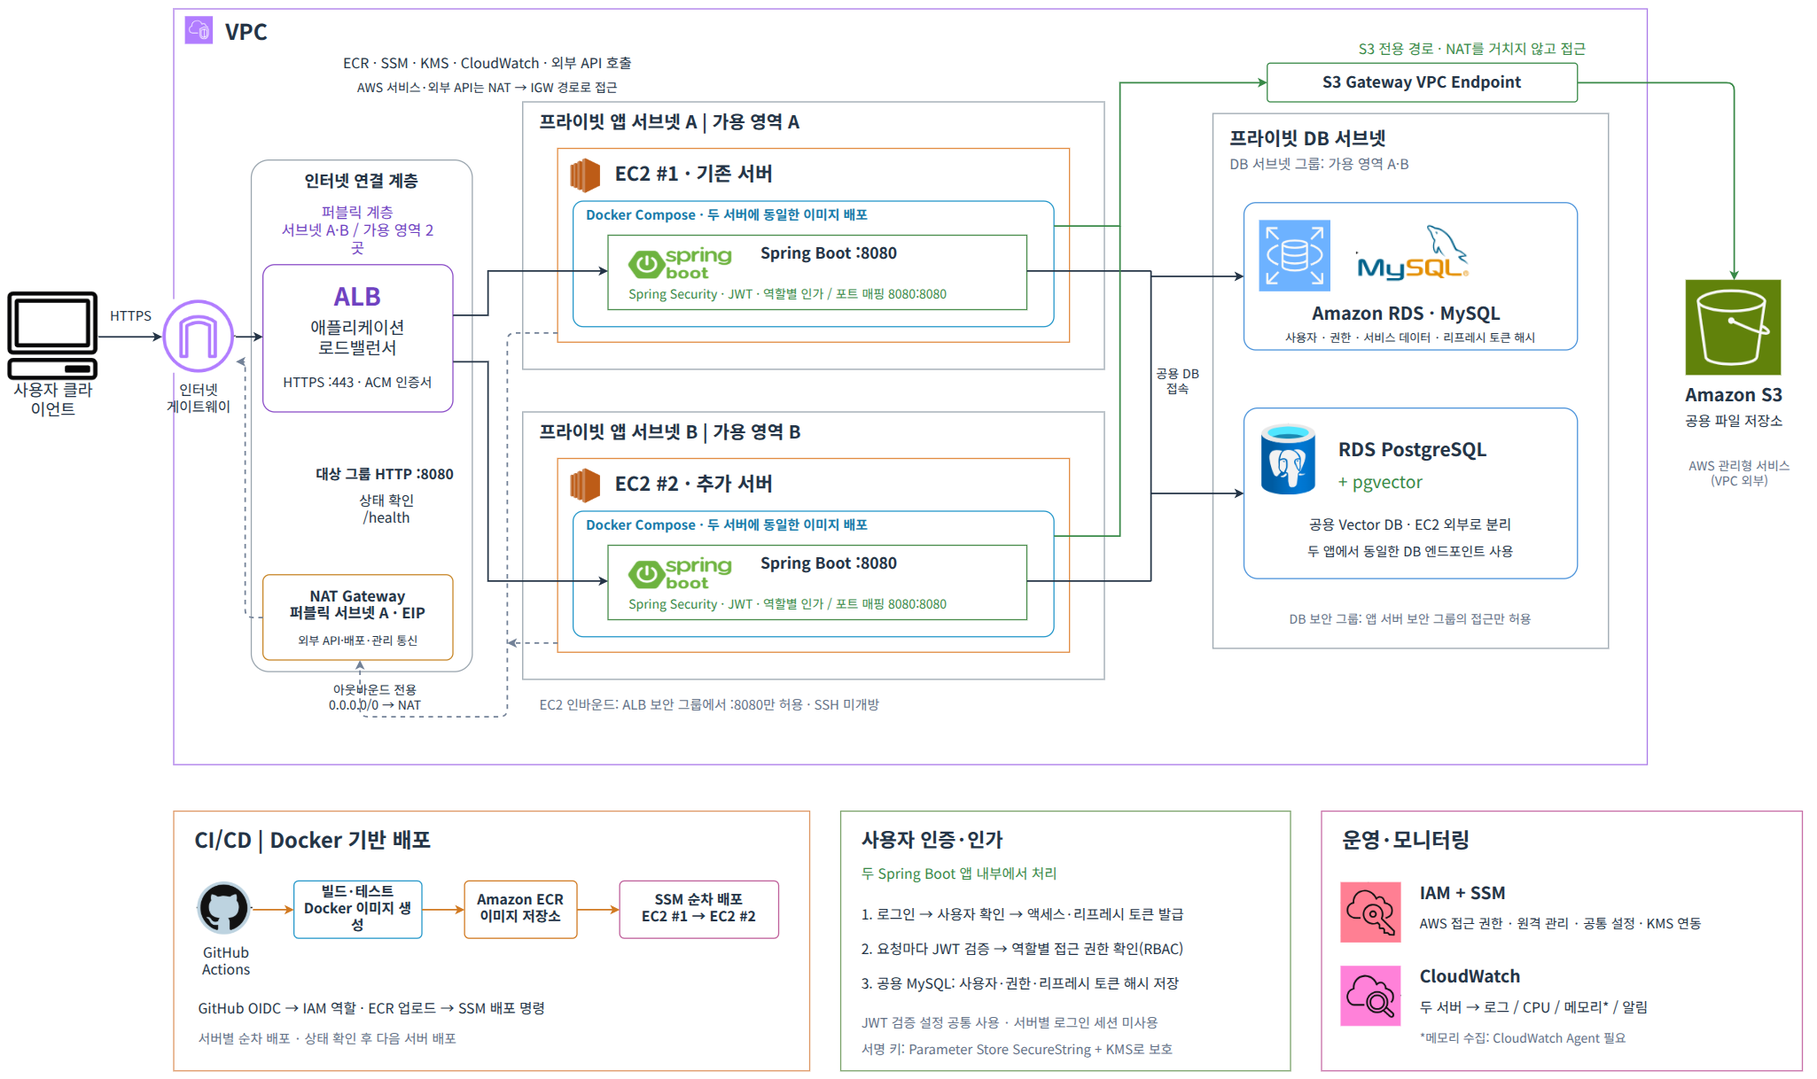
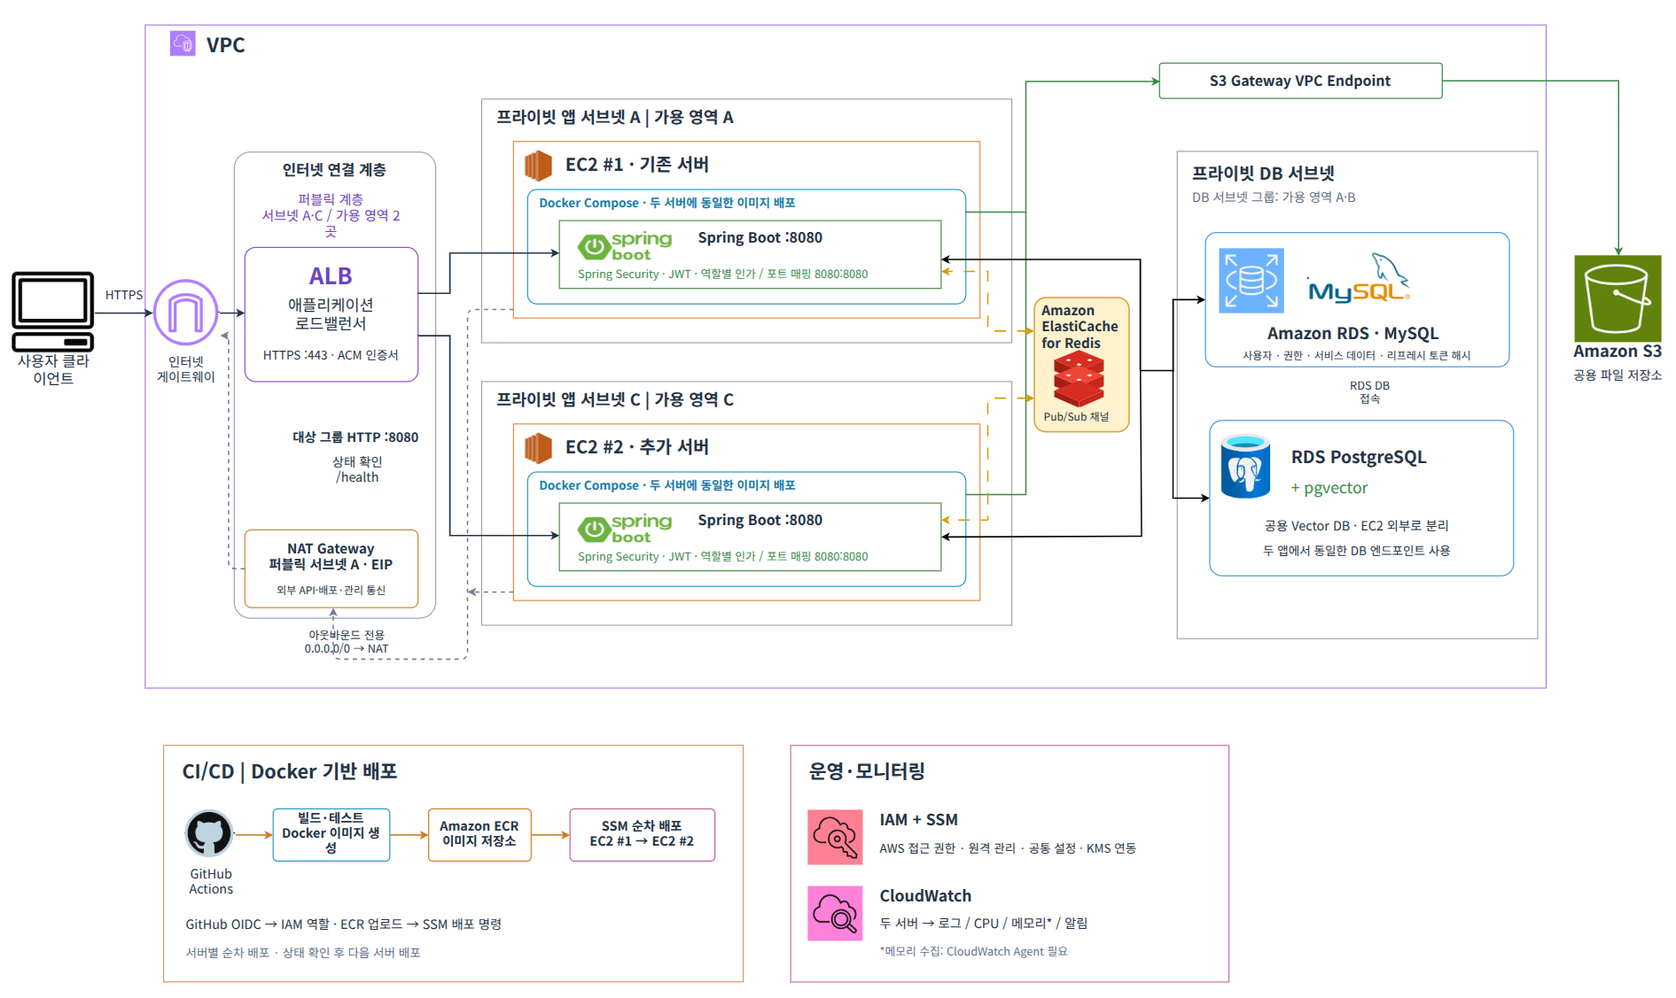
Update README for store chat, the two-server setup, and the Redis diagram
- Replace the architecture diagram with the version that adds
  ElastiCache (Redis Pub/Sub) between the two app servers.
- Add store chat to the feature list, tech stack, module table,
  event table, ERD (tw_chat, plus shedlock in tw_shared) and API
  overview. The API overview now lists 118 REST endpoints and notes
  that STOMP is used for send and receive.
- Add a design note on what changed when a second server was added:
  chat relay, rate limit counters, scheduled-job locks, and event
  resubmission.
- Rewrite the deploy section to match how production runs today:
  build locally, upload to a private S3 bucket, then go one server at
  a time over SSM with sha256 checks. Mark the diagram's
  GitHub Actions/ECR pipeline as planned, and refer to SSM instead of
  SSH for server access.
- Update the test count to 296 and add verification rows for chat
  rooms and the two-server safeguards.

diff --git a/README.md b/README.md
@@ -12,6 +12,7 @@
 ![Gradle](https://img.shields.io/badge/Gradle-9-02303A?style=flat-square)
 ![MySQL](https://img.shields.io/badge/MySQL-4479A1?style=flat-square)
 ![pgvector](https://img.shields.io/badge/pgvector-4169E1?style=flat-square)
+![Redis](https://img.shields.io/badge/Redis%20(ElastiCache)-DC382D?style=flat-square)
 ![Spring AI](https://img.shields.io/badge/Spring%20AI-2.0.0-6DB33F?style=flat-square)
 
 <br>
@@ -154,6 +155,16 @@ AI 엔드포인트에는 호출 제한이 걸려 있다(`shared/ratelimit`). 비
 
 설명과 숫자를 다르게 다루는 이유는 [설계 포인트](#ai-상담은-설명과-숫자를-다르게-다룬다)에 적었다.
 
+### 매장 채팅
+
+매장마다 단체 채팅방이 하나 있다. 매장을 만들면 같은 트랜잭션에서 방이 생기고, 그 매장의 재직 멤버만 들어올 수 있다.
+
+- 이전 메시지는 REST로, 새 메시지는 **WebSocket(STOMP)** 으로 실시간 주고받는다. 수정·삭제도 실시간으로 반영된다.
+- 서버가 2대라 서로 다른 서버에 붙은 사람도 같은 메시지를 받도록 **Redis Pub/Sub**으로 서버 사이에 전달한다.
+- 권한이 없는 연결은 끊고, 남의 메시지 수정 같은 실수는 보낸 사람에게만 알리고 연결은 유지한다.
+
+흐름과 설계 이유는 [`docs/chat-architecture.md`](docs/chat-architecture.md)에 있다.
+
 ### 매장 운영
 
 | 기능 | 내용 |
@@ -181,7 +192,7 @@ AI 엔드포인트에는 호출 제한이 걸려 있다(`shared/ratelimit`). 비
 
 ## 기존 구조와 무엇이 다른가
 
-같은 기능, 같은 API(117개)를 두 가지 구조로 담고 있다. [`layered`](https://github.com/kiddo-dong/tothework/tree/layered)
+같은 기능, 같은 API(117개)를 두 가지 구조로 담고 있다(`main`에는 그 뒤에 매장 채팅이 더해졌다). [`layered`](https://github.com/kiddo-dong/tothework/tree/layered)
 브랜치가 출발점인 레이어드 구조이고, `main`이 그것을 모듈러 모놀리스로 다시 지은 결과다.
 
 | | `layered` | `main` |
@@ -220,9 +231,11 @@ AI 엔드포인트에는 호출 제한이 걸려 있다(`shared/ratelimit`). 비
 | **업무 DB** | MySQL 8 — 서비스마다 스키마 | 테이블 소유권을 서비스 단위로 |
 | **벡터 DB** | PostgreSQL 16 + pgvector 0.6 | 근로기준법 문서 임베딩 검색 |
 | **AI** | Spring AI 2.0, OpenAI `gpt-4.1-mini`, `text-embedding-3-small` | 임베딩 1536차원 |
+| **실시간** | WebSocket + STOMP, Redis Pub/Sub | 매장 채팅. 서버 2대 사이의 메시지 전달 |
+| **분산 협조** | ShedLock (MySQL), Redis 카운터 | 예약 작업을 한 서버에서만, 호출 제한을 두 서버가 함께 센다 |
 | **인증** | JWT (jjwt), OAuth2 | 리프레시 토큰은 DB에 해시로 보관 |
 | **스토리지** | AWS S3 | 프로필·매뉴얼 이미지 |
-| **테스트** | JUnit 5, Testcontainers, ArchUnit, datasource-proxy | 실제 MySQL·경계 규칙·쿼리 수 |
+| **테스트** | JUnit 5, Testcontainers, ArchUnit, datasource-proxy | 실제 MySQL·Redis·경계 규칙·쿼리 수 |
 
 영속성은 JPA 대신 **Spring Data JDBC**를 쓴다. 지연 로딩·변경 감지·프록시가 없어 엔티티를 타고 다른 서비스로
 결합이 새어 나갈 수 없다. 목록처럼 자식 컬렉션을 여러 루트에 걸쳐 읽는 곳은 SQL을 직접 쓴다
@@ -239,6 +252,8 @@ AI 엔드포인트에는 호출 제한이 걸려 있다(`shared/ratelimit`). 비
 | **스토리지** | AWS S3 | 프로필·매장·매뉴얼 이미지. key로 저장하고 URL은 조립 |
 | **모니터링** | Amazon CloudWatch | EC2 기본 지표(CPU·네트워크·디스크) + **CloudWatch Agent로 로그 수집** |
 | **프로세스 관리** | systemd | 전용 계정으로 실행, 부팅 시 자동 기동, 시크릿은 `EnvironmentFile` |
+| **배포** | 로컬 빌드 → S3 → SSM으로 한 대씩 | 현재는 수동이다. 그림의 Docker·ECR·GitHub Actions 자동 배포는 전환 예정 |
+| **서버 접근** | AWS Systems Manager (SSM) | SSH를 열지 않는다. 세션과 원격 명령 모두 SSM |
 | **로드밸런서** | AWS ALB | TLS 종료(ACM 인증서), EC2의 `8080`으로 전달, 헬스체크 `/health` |
 | **프론트엔드** | Vercel | [`tothework.com`](https://tothework.com) |
 | **운영 상태** | Spring Boot Actuator | `health`·`info`·`metrics`·`loggers`, **8081 루프백 전용** |
@@ -250,7 +265,7 @@ ALB는 8080(트래픽 포트)으로만 보내고 8081은 루프백이라, 상세
 
 **로그를 두 곳에 쌓는 이유** — 인스턴스 안에는 Logback이 파일로 남기고, CloudWatch Agent가 같은 로그를
 밖으로 보낸다. 파일만 있으면 **인스턴스를 잃는 순간 장애 직전의 로그도 함께 사라진다.**
-반대로 로컬 파일이 있어야 SSH로 들어가 바로 `tail`할 수 있다.
+반대로 로컬 파일이 있어야 SSM 세션으로 들어가 바로 `tail`할 수 있다.
 
 **로그 상한을 건 이유** — 작은 인스턴스에서 로그가 디스크를 채우면 앱이 아니라 **서버가 죽는다.**
 총량 상한이 있어야 최악의 경우가 "오래된 로그 유실"에서 멈춘다.
@@ -261,8 +276,12 @@ ALB는 8080(트래픽 포트)으로만 보내고 8081은 루프백이라, 상세
 
 ![아키텍처](docs/images/architecture.png)
 
-요청은 **ALB를 거쳐서만** 들어온다. 앱은 8080으로 받고(`SERVER_ADDRESS=0.0.0.0`), EC2 보안 그룹은 8080을 ALB
-보안 그룹에서만 허용한다. Actuator는 8081 루프백 전용이라 ALB로도 닿지 않는다.
+- 요청은 **ALB를 거쳐서만** 들어온다. 앱은 8080으로 받고(`SERVER_ADDRESS=0.0.0.0`), EC2 보안 그룹은 8080을 ALB
+  보안 그룹에서만 허용한다. Actuator는 8081 루프백 전용이라 ALB로도 닿지 않는다.
+- 앱 서버 2대는 서로 다른 가용 영역의 프라이빗 서브넷에 있고, **같은 jar를 같은 설정으로** 돌린다. 상태는 서버에 두지
+  않고 공유 저장소에 둔다. 업무 데이터는 RDS MySQL, 벡터는 RDS PostgreSQL, 채팅 전달·호출 제한은 ElastiCache다.
+- 서버 밖으로 나가는 통신(OpenAI, 메일, 소셜 로그인)은 NAT Gateway를, S3는 Gateway VPC Endpoint를 거친다.
+- 그림 아래의 CI/CD(GitHub Actions → ECR → SSM)는 **전환 예정**이다. 지금은 [배포](#배포)의 수동 절차를 쓴다.
 
 ---
 
@@ -279,12 +298,13 @@ ALB는 8080(트래픽 포트)으로만 보내고 8081은 루프백이라, 상세
 | `workforce` | 스케줄·근태·연차·급여·고용 조건 | `tw_workforce` |
 | `operations` | 체크리스트·공지·인수인계·매뉴얼·거래처·메뉴 | `tw_operations` |
 | `laborqa` | AI 근로 상담 | `tw_laborqa` (+ 벡터 DB) |
+| `chat` | 매장 단체 채팅 (STOMP, Redis Pub/Sub) | `tw_chat` |
 | `bff` | 화면용 조합 API(홈, 멤버 상세). 서비스가 아니다 | 없음 |
 
 ```
 <service>/api    서비스 간 계약 — 레코드·이벤트·인터페이스만
 <service>/core   구현 — Spring Data JDBC, 자기 스키마의 Flyway 마이그레이션
-shared           공통 기반 (보안 필터, 에러 응답, S3, 호출 제한 — 도메인 개념 없음)
+shared           공통 기반 (보안 필터, 에러 응답, S3, 호출 제한, 예약 작업 락 — 도메인 개념 없음)
 bff              여러 서비스의 api를 조합
 app              모두를 하나의 프로세스로 조립하는 실행 모듈 (API 문서, 통합 테스트)
 ```
@@ -303,13 +323,16 @@ app              모두를 하나의 프로세스로 조립하는 실행 모듈 
 
 - **조회**: 다른 서비스의 `api` 인터페이스를 부른다. 예: workforce가 store의 `StoreAccess`로 권한을, identity의
   `UserDirectory`로 이름을 묻는다. 목록은 서비스마다 한 번씩만 묻는다.
-- **이벤트**: `@ApplicationModuleListener`로 받는다. 발행한 쪽이 커밋된 뒤 **별도 트랜잭션에서 비동기로** 실행되고,
-  처리하지 못한 이벤트는 `tw_shared.EVENT_PUBLICATION`에 남아 재시작할 때 다시 전달된다.
+- **이벤트**: 대부분 `@ApplicationModuleListener`로 받는다. 발행한 쪽이 커밋된 뒤 **별도 트랜잭션에서 비동기로**
+  실행된다. 처리하지 못한 이벤트는 `tw_shared.EVENT_PUBLICATION`에 남고, 실패로 확정된 것은 5분마다 **한 서버에서만**
+  다시 보낸다(서버가 2대라 재시작할 때 다시 보내는 방식은 쓰지 않는다). 매장 생성처럼 함께 있어야 하는 것은 같은
+  트랜잭션(`BEFORE_COMMIT`)에서 받는다.
 
 | 이벤트 | 내는 곳 | 받는 곳 |
 |---|---|---|
+| `StoreCreatedEvent` | store (같은 트랜잭션) | chat — 매장 채팅방 생성 |
 | `MemberJoinedEvent` | store | workforce — 기본 고용 조건 생성 |
-| `StorePurgedEvent` | store (유예기간 뒤 완전 삭제) | workforce·operations — 그 매장의 데이터 삭제 |
+| `StorePurgedEvent` | store (유예기간 뒤 완전 삭제) | workforce·operations·chat — 그 매장의 데이터 삭제 |
 | `UserWithdrawnEvent` | identity | store·laborqa — 신청·상담 이력 정리 |
 
 - **화면 조합**: 홈 화면은 bff가 권한을 한 번 확인한 뒤 각 서비스의 조회 계약(`Schedules`·`Attendances`·`Payrolls`·
@@ -317,14 +340,15 @@ app              모두를 하나의 프로세스로 조립하는 실행 모듈 
 - **인증**: 토큰 검증·보안 필터는 `shared.security`에 있어 서비스가 나뉘어도 각자 검증할 수 있다. 발급과 사용자
   저장은 identity만 한다. 로그인 없이 열 경로는 각 서비스가 `PublicEndpoints` 빈으로 등록한다.
 
-설계 문서: [store](docs/design/store.md) · [workforce](docs/design/workforce.md) · [operations](docs/design/operations.md)
+설계 문서: [store](docs/design/store.md) · [workforce](docs/design/workforce.md) · [operations](docs/design/operations.md) · [chat](docs/chat-architecture.md)
 
 ---
 
 ## ERD
 
 서비스마다 스키마가 따로다. 같은 스키마 안에서만 외래키를 걸고, **다른 서비스의 행은 id 값(`memberId`·`userId`·`storeId`)으로만
-가리킨다.** 아래 그림에 서비스를 넘는 선이 없는 이유다. 전체는 서비스 테이블 30개와 공용 이벤트 발행 기록 1개다.
+가리킨다.** 아래 그림에 서비스를 넘는 선이 없는 이유다. 전체는 서비스 테이블 32개와 공용 인프라 테이블 2개(이벤트 발행
+기록, 예약 작업 락)다.
 
 ```mermaid
 erDiagram
@@ -352,6 +376,9 @@ erDiagram
 
     %% tw_laborqa — user_id = users.id (외래키 없음)
     labor_qa_sessions ||--o{ labor_qa_messages : "대화"
+
+    %% tw_chat — store_id = stores.id (외래키 없음). 방과 메시지는 store_id로 묶인다
+    chat_rooms ||--o{ chat_messages : "메시지"
 ```
 
 | 스키마 | 테이블 | 다른 서비스를 가리키는 값 |
@@ -361,6 +388,8 @@ erDiagram
 | `tw_workforce` | employment_terms, employment_available_days, shifts, shift_templates, attendances, leave_usages, payrolls | `member_id`, `store_id` |
 | `tw_operations` | checklist_items·completions, notices·notice_reads, handover_notes, manuals·images, suppliers·items·quantities, menu_ingredients, store_menus, menu_recipe_items | `store_id`, 작성자·확인자 `member_id` |
 | `tw_laborqa` | labor_qa_sessions, labor_qa_messages | `user_id` |
+| `tw_chat` | chat_rooms, chat_messages | `store_id`, 보낸 사람 `user_id` |
+| `tw_shared` | EVENT_PUBLICATION, shedlock (공용 인프라) | — |
 
 **소속과 고용 조건은 같은 memberId로 두 서비스에 나뉜다.** `store_members`(역할·직함·상태)는 store가,
 `employment_terms`(시급·공제 방식·주휴일·근무 가능 요일)는 workforce가 갖는다. 근태·스케줄·급여가 `users`가 아니라
@@ -479,11 +508,29 @@ public static final int MINOR_MAX_WEEKLY_WORK_MINUTES = 35 * 60;   // 연소자
 `StoreAccess`). 어떤 권한이 필요한지 코드를 읽으면 바로 보이고, 매장 소속 여부와 매장 삭제 여부까지 한 번에
 확인된다. 예전에는 각 테이블이 `stores`와 JOIN해 삭제된 매장을 걸렀는데, 서비스가 나뉘면 그 JOIN은 불가능하다.
 
+### 서버가 2대면, 서버 메모리에 둔 것은 전부 다시 본다
+
+ALB 뒤에 서버를 하나 더 붙이자 "서버가 한 대"라고 가정한 곳이 드러났다. 기능은 그대로 돌아서 겉으로는 티가 나지
+않는 것들이다.
+
+| 서버 한 대일 때 | 두 대가 되면 | 지금 |
+|---|---|---|
+| 채팅 구독자가 서버 메모리(SimpleBroker)에 있다 | 다른 서버에 붙은 사람에게 메시지가 가지 않는다 | Redis Pub/Sub. 발행만 하고, 각 서버의 리스너 한 곳에서만 자기 구독자에게 보낸다 |
+| 호출 제한 카운터가 서버 메모리에 있다 | 한도가 사실상 2배가 된다 | Redis에서 함께 센다. Redis에 닿지 못하면 서버 메모리로 물러난다 |
+| `@Scheduled` 작업이 서버마다 돈다 | 매장 완전 삭제가 두 번 돌아 삭제 이벤트가 두 번 나간다 | ShedLock. 공유 MySQL의 락을 잡은 한 서버만 돈다 |
+| 재시작할 때 미완료 이벤트를 다시 보낸다 | 다른 서버가 처리 중인 이벤트까지 두 번 처리한다 | 재시작 재전송을 끄고, 실패로 확정된 이벤트만 한 서버에서 다시 보낸다 |
+
+공통된 기준은 **서버는 언제든 늘거나 사라질 수 있다**는 것이다. 그래서 공유해야 하는 상태는 공유 저장소(MySQL·Redis)에
+두고, 한 번만 일어나야 하는 일은 공유 저장소의 락으로 하나를 고른다. 채팅의 서버 간 전달은 로컬에서 서버 2대를 띄워
+재현했다([`deploy/chat-test/`](deploy/chat-test/README.md)).
+
 ---
 
 ## API 개요
 
-**24개 컨트롤러, 117개 API**, 전 경로 `/api/v1` 아래. 기존 레이어드 구조와 경로·JSON이 같다. 인증은 `Authorization: Bearer <accessToken>`.
+**REST 컨트롤러 24개, 118개 API**, 전 경로 `/api/v1` 아래. 기존 레이어드 구조의 117개와 경로·JSON이 같고, 매장 채팅
+조회 1개가 더해졌다. 인증은 `Authorization: Bearer <accessToken>`. 채팅 전송·수정·삭제와 실시간 수신은 REST가 아니라
+WebSocket(`/ws`, STOMP)이다.
 
 | 영역 | 기본 경로 | 주요 기능 |
 |---|---|---|
@@ -507,6 +554,7 @@ public static final int MINOR_MAX_WEEKLY_WORK_MINUTES = 35 * 60;   // 연소자
 | 매뉴얼 | `/stores/{id}/manuals` | CRUD, 이미지 업로드 |
 | 발주(거래처) | `/stores/{id}/suppliers` | 발주(거래처) CRUD, 품목 CRUD |
 | 원가 | `/stores/{id}/menus`, `/menu-ingredients` | 재료·메뉴·레시피, 원가율 |
+| 채팅 | `/stores/{id}/chat/messages` | 이전 메시지 조회(커서). 전송·수정·삭제·수신은 STOMP `/app/stores/{id}/chat.*`, `/topic/stores/{id}/chat` |
 | AI 상담 | `/labor-qa` | 단발 질문, 세션 생성·대화·삭제 |
 | 지식베이스 | `/labor-qa/admin` | 문서 적재 (관리자 토큰 필요) |
 
@@ -593,7 +641,7 @@ curl -X POST -H "Authorization: Bearer $TOKEN" -H "X-Admin-Token: $ADMIN_INGEST_
 SPRING_PROFILES_ACTIVE=localdb DB_PASSWORD=... ./gradlew build   # Docker가 없으면 로컬 MySQL로
 ```
 
-**테스트 226개.** 단위 테스트 외에 다음을 실제 DB에 붙여 확인한다. 중요한 것은 **일부러 코드를 망가뜨려 실패하는지도
+**테스트 296개.** 단위 테스트 외에 다음을 실제 DB·Redis에 붙여 확인한다. 중요한 것은 **일부러 코드를 망가뜨려 실패하는지도
 확인했다.**
 
 | 확인 대상 | 방법 | 깨 봤을 때 |
@@ -604,6 +652,8 @@ SPRING_PROFILES_ACTIVE=localdb DB_PASSWORD=... ./gradlew build   # Docker가 없
 | **경계** | 다른 서비스 core 의존(빌드), 순환(Modulith), 서비스 안 패키지 방향(ArchUnit) | 역방향 참조를 넣으면 실패 |
 | **API 문서** | Swagger 문서에 118개 API(기존 117개 + 채팅 조회)가 모두 실리는지 | — |
 | **채팅** | 실제 포트에 WebSocket으로 붙어 인증·구독 권한·두 사람 수신·오류 분리·Redis 경유 전달을 본다 | 발행과 로컬 전송을 함께 하면 "한 번만 받는다" 테스트가 실패 |
+| **채팅방** | 매장 생성 직후 방이 있는지, 기존 매장 채우기가 두 번 돌아도 방이 하나인지, 완전 삭제 때 함께 지워지는지 | — |
+| **서버 2대** | 두 번째 서버의 락 획득이 막히는지, 예약 작업이 락 아래서 도는지, 두 서버의 호출 제한이 한 숫자로 세지는지 | — |
 
 > N+1과 동시성 결함은 **코드를 읽어서는 드러나지 않고** 데이터 두어 건으로는 체감되지 않는다.
 > 그래서 재현 조건을 테스트가 직접 만든다.
@@ -612,25 +662,42 @@ SPRING_PROFILES_ACTIVE=localdb DB_PASSWORD=... ./gradlew build   # Docker가 없
 
 ## 배포
 
+지금은 **수동 배포**다. 서버 2대에 같은 jar를 한 대씩 올린다. 그림의 GitHub Actions → ECR → SSM 자동 배포는 전환
+예정이다.
+
 ```bash
-./gradlew :app:bootJar
-scp app/build/libs/app-0.0.1-SNAPSHOT.jar ubuntu@<host>:/tmp/albam.jar
-# 서버에서: mv → chown → systemctl restart albam
+./gradlew build                 # 테스트까지 (Docker 필요)
+./gradlew :app:bootJar          # app/build/libs/app-0.0.1-SNAPSHOT.jar
 ```
 
-**빌드는 로컬에서 한다.** 작은 인스턴스에서 Gradle을 돌리면 메모리가 모자란다.
-systemd 유닛은 [`deploy/systemd/`](deploy/systemd/)에 있다. 서비스 이름·계정·경로(`albam`)는 기존 서버 설정을 그대로
-쓰려고 옛 이름을 유지한다.
+1. jar를 **비공개** 배포용 S3 버킷에 올린다. 앱 이미지를 공개 URL로 내보내는 버킷에는 올리지 않는다.
+2. 각 서버가 SSM으로 jar를 내려받고 sha256을 대조한다. 여기까지는 서비스에 영향이 없다.
+3. **한 대씩** 바꾼다. 한 대가 재시작하는 동안 ALB가 다른 한 대로 보낸다.
+   ```bash
+   sudo cp -p /opt/albam/albam.jar /opt/albam/albam.jar.prev       # 롤백용
+   sudo install -o albam -g albam -m 644 /tmp/albam.jar /opt/albam/albam.jar
+   sudo systemctl restart albam
+   curl -s localhost:8080/health                                     # {"status":"UP"}
+   ```
+   먼저 뜬 서버가 Flyway 마이그레이션을 적용하고, 다음 서버는 건너뛴다. ALB에서 healthy가 된 뒤 다음 서버로 넘어간다.
+4. 새벽 4~5시(예약 작업 시간)는 피한다.
+
+**빌드는 로컬에서 한다.** 작은 인스턴스에서 Gradle을 돌리면 메모리가 모자란다. systemd 유닛과 환경 파일 예시는
+[`deploy/systemd/`](deploy/systemd/)에 있다. 서비스 이름·계정·경로(`albam`)는 기존 서버 설정을 그대로 쓰려고 옛 이름을
+유지한다. 서버를 늘리거나 채팅을 처음 배포할 때의 체크리스트는 [`docs/chat-deployment.md`](docs/chat-deployment.md)에 있다.
 
 > **`APP_FRONTEND_URL`을 빠뜨리면 조용히 깨진다.** 기본값이 `localhost:5173`이라 기동은 되지만, 비밀번호 재설정 메일이 사용자 자기 PC를 가리키는 링크를 담아 나간다. 재설정 폼은 그 링크로만 갈 수 있어 계정 복구가 막힌다.
 
 > **`COOKIE_SECURE=true`** 가 아니면 HTTPS에서 리프레시 쿠키가 나가지 않아 로그인이 통째로 깨진다.
 
-**운영 상태 확인** — ALB 헬스체크는 앱 상태와 DB만 보는 `/health`(8080)다. 상세 상태(Actuator)는 8081 루프백
-전용이라 ALB로는 닿지 않는다.
+> **`SERVER_ID`는 서버마다 다르게.** 채팅 연결 로그가 어느 서버에서 났는지 가르는 값이다. systemd에는 `HOSTNAME`이 없어서
+> 비우면 두 서버 모두 `local`로 찍힌다.
+
+**운영 상태 확인** — ALB 헬스체크는 앱 상태와 DB만 보는 `/health`(8080)다. 상세 상태(Actuator, Redis 포함)는 8081
+루프백 전용이라 ALB로는 닿지 않는다.
 
 ```bash
-curl localhost:8081/actuator/health    # 서버에 SSH로 들어가서
+curl localhost:8081/actuator/health    # 서버에서 (SSM 세션 또는 SSM 원격 명령)
 ```
 
 ---
@@ -644,7 +711,7 @@ curl localhost:8081/actuator/health    # 서버에 SSH로 들어가서
 | [`docs/design/`](docs/design/) | 서비스별 설계와 옮기며 알게 된 것 (store · workforce · operations) |
 | [`docs/http/`](docs/http/) | 흐름별 curl 스크립트 |
 | [`docs/chat-architecture.md`](docs/chat-architecture.md) | 매장 단체 채팅(STOMP + Redis Pub/Sub)의 흐름과 설계 이유 |
-| [`docs/chat-deployment.md`](docs/chat-deployment.md) | ALB + EC2 2대 + ElastiCache로 옮길 때 할 일 |
+| [`docs/chat-deployment.md`](docs/chat-deployment.md) | 채팅·서버 2대 배포 체크리스트 (ALB, ElastiCache, 환경 변수, 순차 배포) |
 | [`deploy/chat-test/`](deploy/chat-test/README.md) | 채팅을 서버 2대로 로컬 재현 (docker compose) |
 
 ---
